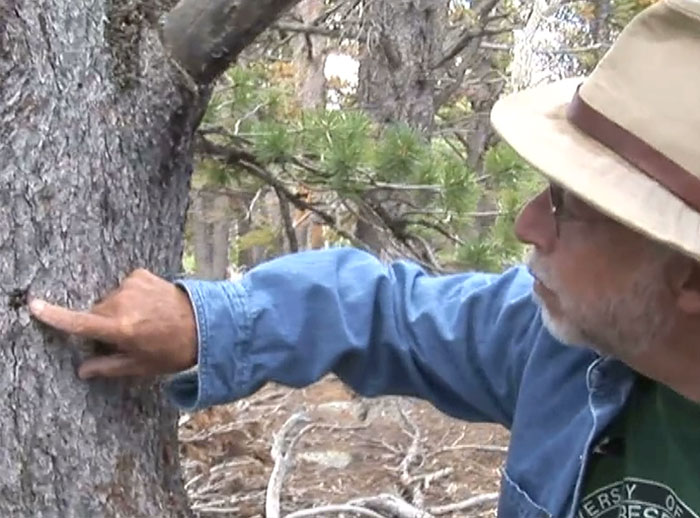
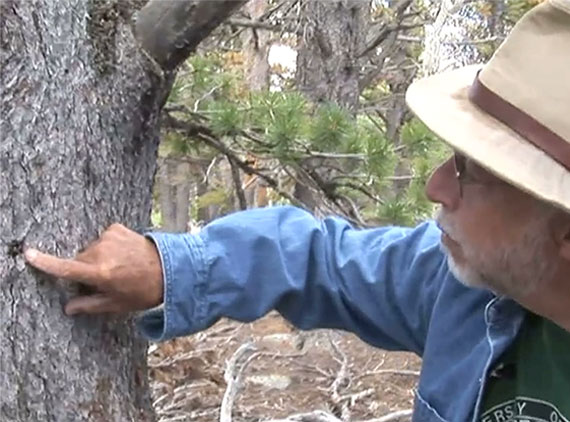
Adjust text and images for screen size change

diff --git a/src/themes/history_colorado/colorado.css b/src/themes/history_colorado/colorado.css
@@ -60,25 +60,24 @@ body.hc_snow {
   width: 1366px;
 }
 .hc_snow #wrapper {
-  padding: 138px 92px;
+  padding: 108px 72px;
 }
 .hc_snow h1 {
-  font-size: 40px;
+  font-size: 33px;
 }
 .hc_snow h2 {
-  font-size: 56px;
+  font-size: 46px;
 }
 .hc_snow h3 {
-  font-size: 32px;
+  font-size: 26px;
 }
 .hc_snow .videoBox {
-  width: 700px;
-  margin-right: 14px;
+  width: 570px;
 }
 .hc_snow .video-0 {
-  margin-right: 82px;
+  margin-right: 68px;
 }
 .hc_snow .videoBox img {
-  height: 518px;
-  width: 700px;
+  height: 422px;
+  width: 570px;
 }
